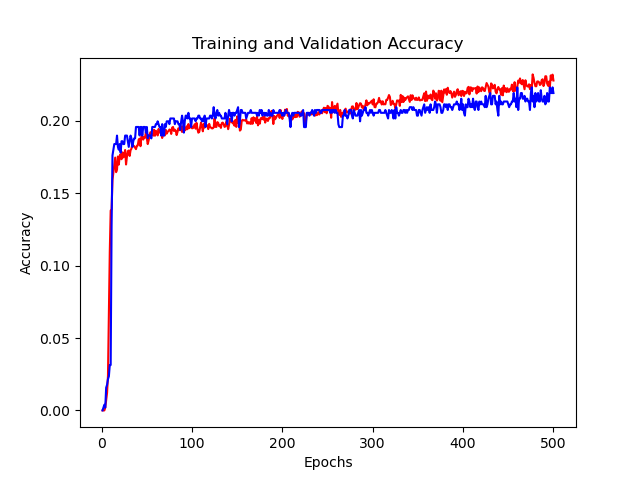
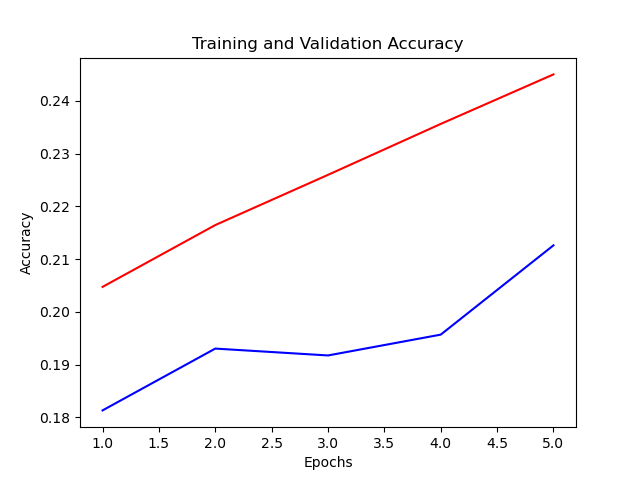
# updated visualization

diff --git a/model.py b/model.py
@@ -44,13 +44,19 @@ class NetworkTrafficClassifier(object):
 
     def classifier(self):
         inputs = Input(shape=(n_features,))
-        x = Dense(dense1, activation='tanh')(inputs)
-        # x = BatchNormalization()(x)
-        x = Dense(dense2, activation='tanh')(x)
-        x = Dense(dense2, activation='tanh')(x)
-        x = Dense(dense3, activation='tanh')(x)
-        x = Dense(dense3, activation='tanh')(x)
-        x = Dense(dense3, activation='tanh')(x)
+        x = Dense(dense1, activation='relu')(inputs)
+        x = Dense(dense2, activation='relu')(x)
+        x = Dense(dense2, activation='relu')(x)
+        x = Dense(dense2, activation='relu')(x)
+        x = Dense(dense2, activation='relu')(x)
+        x = BatchNormalization()(x)
+        x = Dropout(keep_prob)(x)
+        x = Dense(dense3, activation='relu')(x)
+        x = Dense(dense3, activation='relu')(x)
+        x = Dense(dense3, activation='relu')(x)
+        x = Dense(dense3, activation='relu')(x)
+        x = BatchNormalization()(x)
+        x = Dropout(keep_prob)(x)
         outputs = Dense(self.num_classes, activation='softmax')(x)
         self.model = Model(inputs, outputs)
 
@@ -83,10 +89,14 @@ class NetworkTrafficClassifier(object):
                             )
 
     def plot_metrics(self):
+        plot_steps = num_epoches // plot_step
+
         loss_train = self.history.history['loss']
         loss_val = self.history.history['val_loss']
-        plt.plot(np.arange(1,num_epoches+1), loss_train, 'r', label='Training loss')
-        plt.plot(np.arange(1,num_epoches+1), loss_val, 'b', label='validation loss')
+        loss_train = [loss for i,loss in enumerate(loss_train) if (i+1)%plot_step == 0]
+        loss_val = [loss for i,loss in enumerate(loss_val) if (i+1)%plot_step == 0]
+        plt.plot(np.arange(1,plot_steps+1), loss_train, 'r', label='Training loss')
+        plt.plot(np.arange(1,plot_steps+1), loss_val, 'b', label='validation loss')
         plt.title('Training and Validation loss')
         plt.xlabel('Epochs')
         plt.ylabel('Loss')
@@ -96,8 +106,10 @@ class NetworkTrafficClassifier(object):
 
         acc_train = self.history.history['acc']
         acc_val = self.history.history['val_acc']
-        plt.plot(np.arange(1,num_epoches+1), acc_train, 'r', label='Training Accuracy')
-        plt.plot(np.arange(1,num_epoches+1), acc_val, 'b', label='validation Accuracy')
+        acc_train = [acc for i,acc in enumerate(acc_train) if (i+1)%plot_step == 0]
+        acc_val = [acc for i,acc in enumerate(acc_val) if (i+1)%plot_step == 0]
+        plt.plot(np.arange(1,plot_steps+1), acc_train, 'r', label='Training Accuracy')
+        plt.plot(np.arange(1,plot_steps+1), acc_val, 'b', label='validation Accuracy')
         plt.title('Training and Validation Accuracy')
         plt.xlabel('Epochs')
         plt.ylabel('Accuracy')
@@ -148,6 +160,19 @@ class NetworkTrafficClassifier(object):
     def predicts(self,X):
         return self.model.predict(X)
 
+    def run(self):
+        if os.path.exists(model_weights):
+            print("Loading the model !!!")
+            self.load_model(model_weights)
+        else:
+            print("Training the model !!!")
+            self.classifier()
+            self.train()
+            self.plot_metrics()
+            self.save_model(model_weights)
+        self.evaluation()
+        # self.predict_classes()
+
 if __name__ == "__main__":
     parser = argparse.ArgumentParser()
     my_parser = argparse.ArgumentParser(description='Model parameters and hyperparameters')
@@ -162,14 +187,4 @@ if __name__ == "__main__":
     Train = True if args.data_set.lower() == 'train' else False
 
     model = NetworkTrafficClassifier(Train)
-    if os.path.exists(model_weights):
-        print("Loading the model !!!")
-        model.load_model(model_weights)
-    else:
-        print("Training the model !!!")
-        model.classifier()
-        model.train()
-        model.plot_metrics()
-        model.save_model(model_weights)
-    model.evaluation()
-    # model.predict_classes()
+    model.run()

diff --git a/variables.py b/variables.py
@@ -7,14 +7,16 @@ dense1 = 1024
 dense2 = 512
 dense3 = 128
 keep_prob = 0.3
-n_features = 48
+n_components = 24
+n_features = n_components
+# n_features = 48
 
 train_classes = 63
 
-learning_rate = 0.001
-batch_size = 20
+learning_rate = 0.0001
+batch_size = 128
 num_epoches = 500
-validation_split = 0.1
+validation_split = 0.15
 
 custom_acc = 0.9
 
@@ -29,6 +31,7 @@ test_csv = os.path.join(os.getcwd(), 'Datasets 0.5s/Test0.5s.csv')
 # test_csv = os.path.join(os.getcwd(), '0.2 csv/Test0.2s.csv')
 
 #Data Visulization
+plot_step = 100
 acc_img = "Visualization/accuracy_comparison.png"
 loss_img = "Visualization/loss_comparison.png"
 

diff --git a/util.py b/util.py
@@ -27,7 +27,12 @@ def get_data(Train):
         joblib.dump(scaler, scalar_weights)
 
     scaler = joblib.load(scalar_weights)
-    Inputs = scaler.transform(Inputs)
+    # Inputs = scaler.transform(Inputs)
+
+    pca = PCA(n_components=n_components)
+    pca.fit(Inputs)
+
+    Inputs = pca.transform(Inputs)
 
     if not os.path.exists(encoder_weights):
         encoder = OneHotEncoder()
@@ -116,4 +121,4 @@ def visualize_correlation():
     DataDict = get_apps_data(Xtrain, Xtest, Trainlabels, Testlabels)
     plot_data(DataDict)
 
-visualize_correlation()
+# visualize_correlation()
